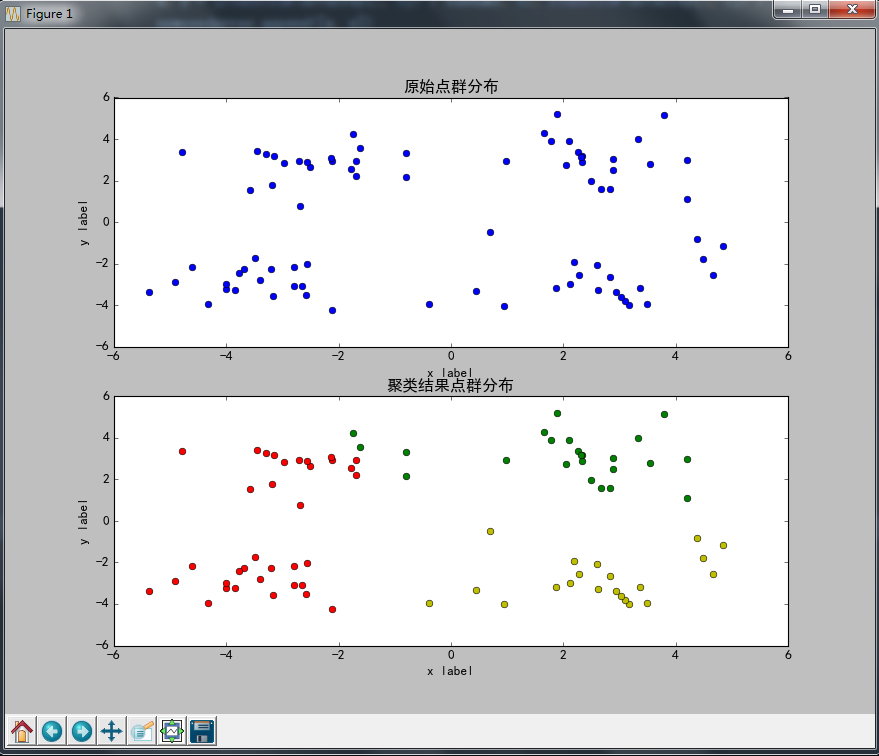
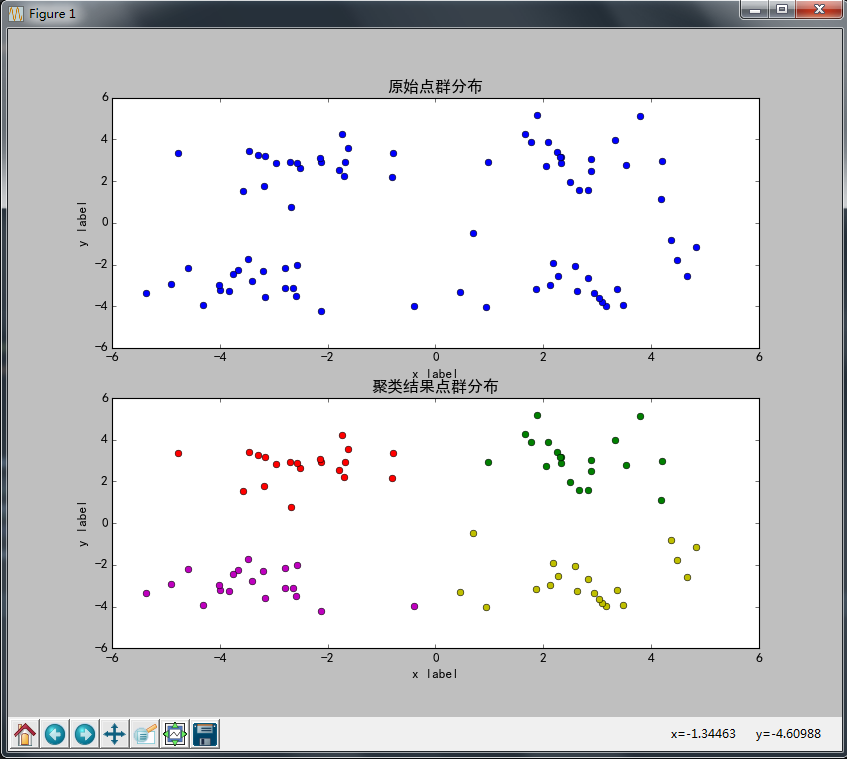
构建二叉搜索树并以matplotlib给以图示

diff --git a/com/kute/algorithms/kmeans/kmeans.py b/com/kute/algorithms/kmeans/kmeans.py
@@ -107,6 +107,7 @@ class Kmeans(object):
 
     def show_figure(self):
         linestylearray = np.random.choice(self.linestyles, self.k + 1, replace=False)
+        print(linestylearray)
         plt.figure(1)
         plt.subplot(2, 1, 1)
         lines = plt.plot(self.nlocationarray[:, 0], self.nlocationarray[:, 1], linestylearray[0])
@@ -143,7 +144,7 @@ class Kmeans(object):
 
 def main():
     filepath = "two_dimension_location.txt"
-    kmeans = Kmeans(3, filepath, None, True)
+    kmeans = Kmeans(4, filepath, None, True)
     print(kmeans.result)
     kmeans.show_figure()
 
